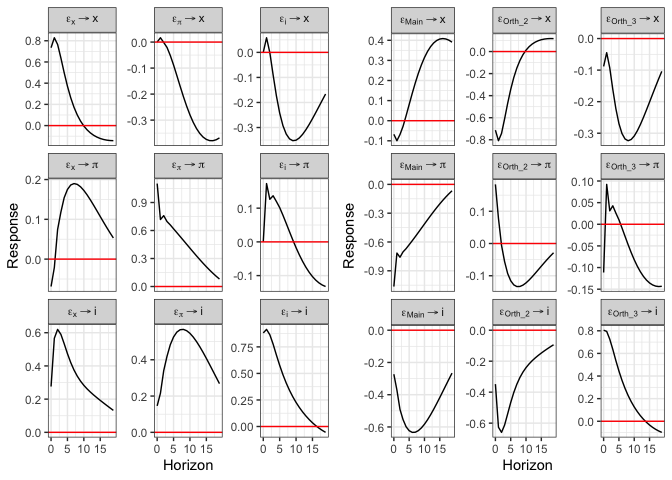
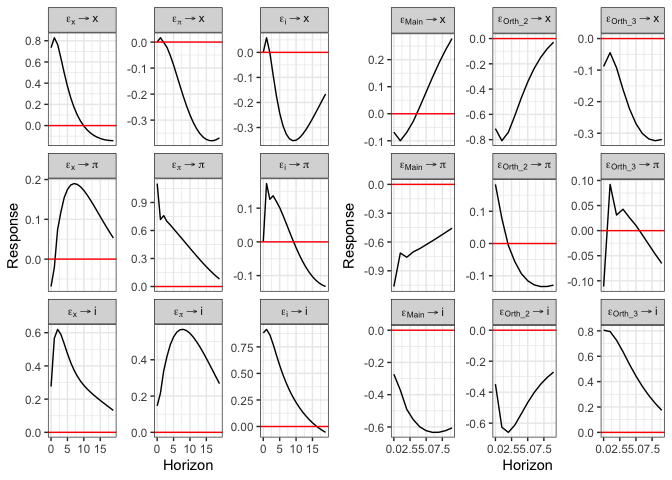
Readme update

diff --git a/README.md b/README.md
@@ -100,12 +100,12 @@ bc_freqs <- c(2 * pi / 32, 2 * pi / 6)
 mfv <- id_fevdfd(v, target = "pi", freqs = bc_freqs)
 
 ## Comparing fevds
-fevdsv <- fevdfd(sv)[, 2, 2]
-fevdmv <- fevdfd(mfv)[, 2, 1]
+fevdsv <- fevdfd(sv)$pi
+fevdmv <- fevdfd(mfv)$pi
 
 ## Plotting
 require(ggplot2)
-cbind(f = seq(0, 2 * pi, length.out = 1000), pi = fevdsv, Main = fevdmv) |> 
+dplyr::full_join(fevdsv, fevdmv, by = "f") |>
   dplyr::as_tibble() |>
   tidyr::pivot_longer(cols = !f) |>
   dplyr::filter(name %in% c("Main", "pi")) |>
